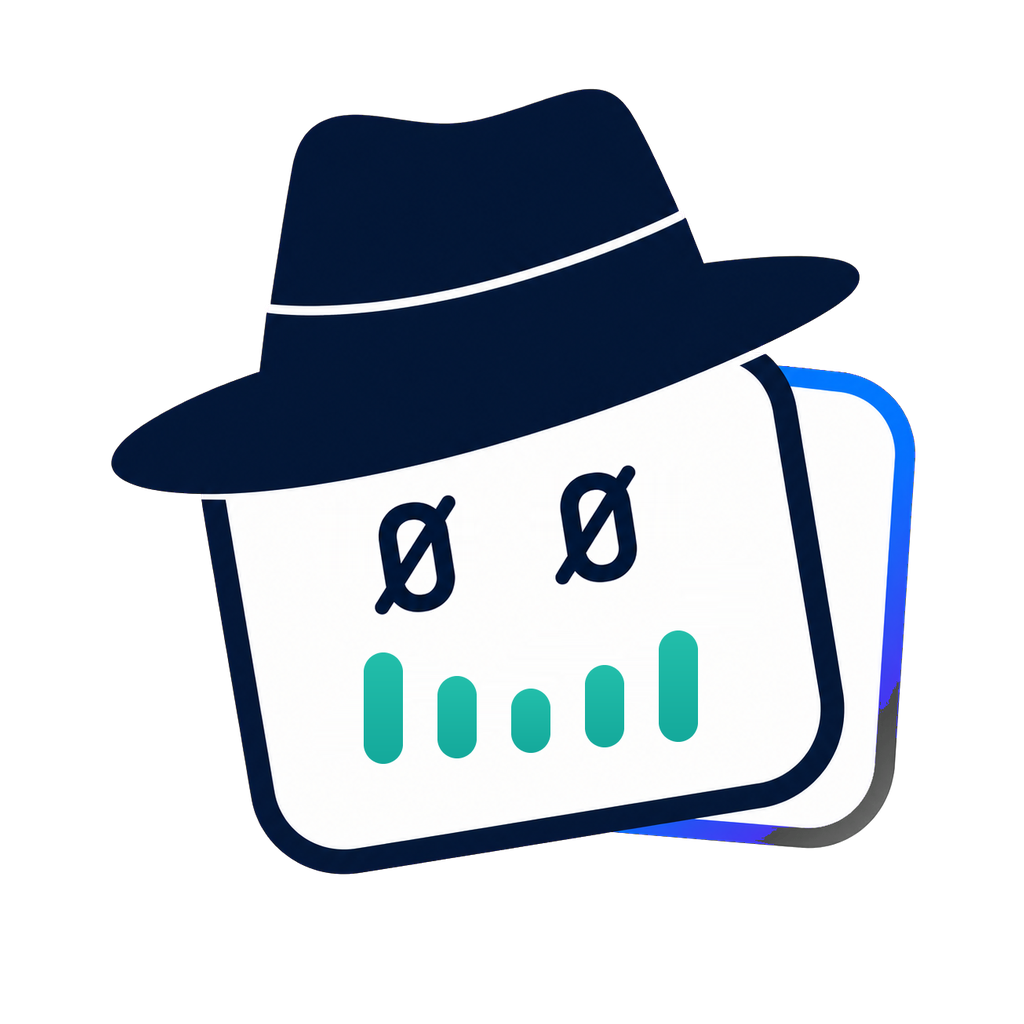
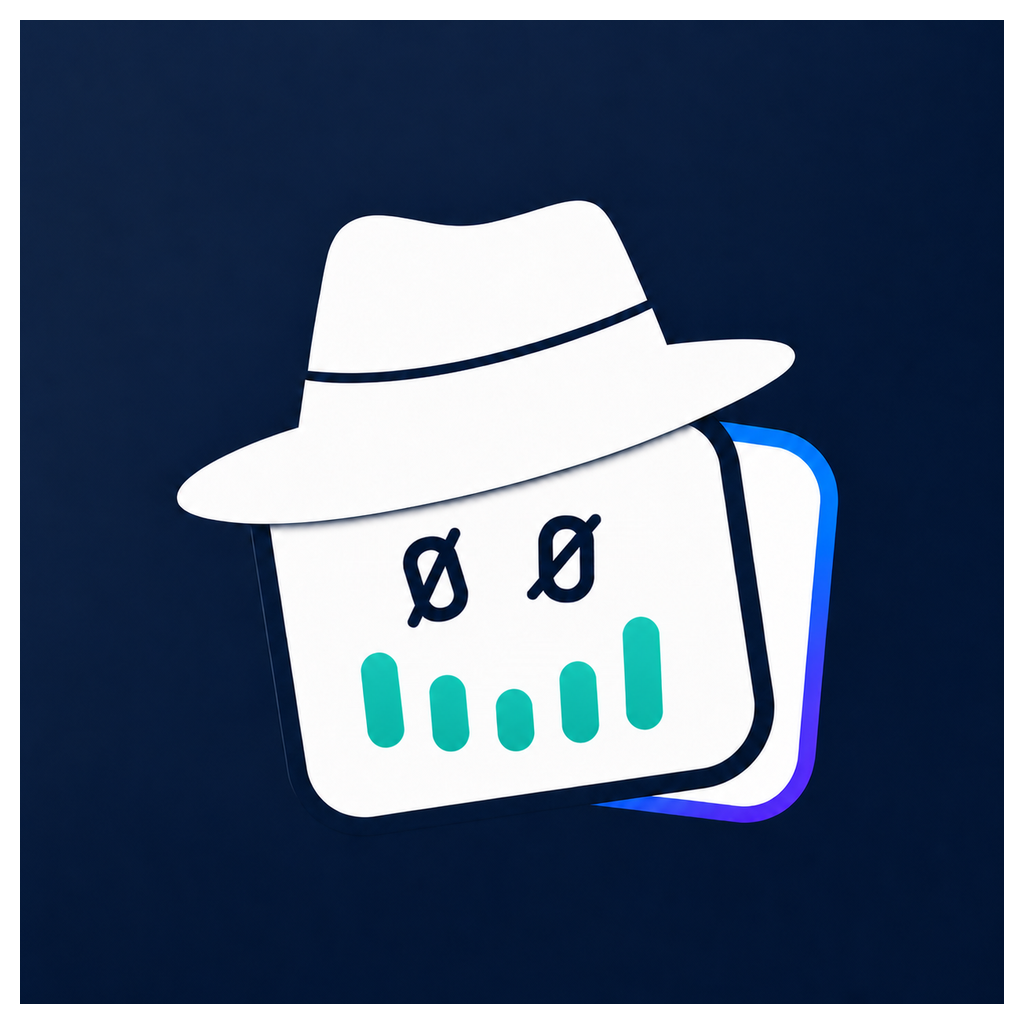
Adopt playful expression across branding

diff --git a/scripts/generate-brand-assets.py b/scripts/generate-brand-assets.py
@@ -192,13 +192,14 @@ def generate() -> None:
             raise SystemExit(f"Missing approved identity source: {required}")
 
     mark = Image.open(MARK_MASTER).convert("RGBA")
-    app_icon = Image.open(APP_ICON_MASTER).convert("RGB").resize((1024, 1024), Image.Resampling.LANCZOS)
+    app_icon_master = Image.open(APP_ICON_MASTER).convert("RGB")
+    app_icon = app_icon_master.resize((1024, 1024), Image.Resampling.LANCZOS)
     wordmark_opaque = exact_wordmark(transparent=False).convert("RGB")
     wordmark_transparent = clean_wordmark((2400, 840), dark_surface=True)
 
     save(app_icon, BRAND_DIR / "mark-1024.png", opaque=True)
     save(contain(mark, (1024, 1024), padding=20), BRAND_DIR / "mark-transparent-1024.png")
-    save(resize(app_icon, (512, 512), opaque=True), BRAND_DIR / "plugin-logo.png", opaque=True)
+    save(resize(app_icon_master, (512, 512), opaque=True), BRAND_DIR / "plugin-logo.png", opaque=True)
     save(contain(mark, (512, 512), padding=10), BRAND_DIR / "plugin-composer-icon.png")
     save(wordmark_opaque, BRAND_DIR / "wordmark-horizontal.png", opaque=True)
     save(wordmark_transparent, BRAND_DIR / "wordmark-horizontal-transparent.png")

diff --git a/docs/brand/README.md b/docs/brand/README.md
@@ -25,9 +25,10 @@ it as hard geometric primitives or alter its proportions.
 
 `branding-sheet.png` is the authoritative approved identity sheet, and the
 generator crops its platform exports out of it.
-`mark-transparent-master.png` is the production transparent mark derived
-from that exact design, and `app-icon-master.png` is its high-resolution
-white-hat app-icon treatment. Platform exports are generated by:
+`app-icon-master.png` is the exact approved playful artwork and the single
+visual source for platform exports. `mark-transparent-master.png` mirrors that
+same artwork for consumers that require the legacy transparent-mark filename.
+Platform exports are generated by:
 
 ```bash
 python3.12 -m pip install -r scripts/requirements.txt
@@ -49,14 +50,14 @@ byte-for-byte, which is the check to run after changing the pin.
 | File                                  | Size       | Background       | Use                                                                                          |
 | ------------------------------------- | ---------- | ---------------- | -------------------------------------------------------------------------------------------- |
 | `mark-1024.png`                       | 1024×1024  | Opaque dark navy | iOS App Icon. Already wired into `ios/Resources/App/Assets.xcassets/AppIcon.appiconset/Icon-1024.png`. |
-| `mark-transparent-1024.png`           | 1024×1024  | Transparent      | Mark on arbitrary backgrounds — buttons, badges, dark headers.                               |
+| `mark-transparent-1024.png`           | 1024×1024  | Transparent clearspace | Approved icon artwork for buttons, badges, and headers.                                  |
 | `plugin-logo.png`                     | 512×512    | Opaque dark navy | Plugin directory logo (`interface.logo`).                                                     |
 | `plugin-composer-icon.png`            | 512×512    | Transparent      | Plugin composer icon (`interface.composerIcon`).                                              |
 | `wordmark-horizontal.png`             | 2400×840   | Opaque light     | Pixel-exact approved horizontal lockup for light surfaces. |
 | `wordmark-horizontal-transparent.png` | 2400×840   | Transparent      | Clean dark-surface lockup using the approved typography and tagline. |
 | `branding-sheet.png`                  | 1536×1024  | Opaque light     | Authoritative approved U2 identity sheet, and the generator's source image.                   |
-| `mark-transparent-master.png`          | 1254×1254  | Transparent      | High-resolution production mark for derived assets.                                          |
-| `app-icon-master.png`                  | 1254×1254  | Opaque navy      | High-resolution white-hat app icon master.                                                    |
+| `mark-transparent-master.png`          | 1254×1254  | Opaque navy      | Legacy-named mirror of the exact approved playful master.                                     |
+| `app-icon-master.png`                  | 1254×1254  | Opaque navy      | Exact approved playful master; do not redraw or reinterpret.                                  |
 
 This identity is raster-first so production assets remain faithful to the
 approved U2 artwork. Do not substitute an approximate vector redraw.
